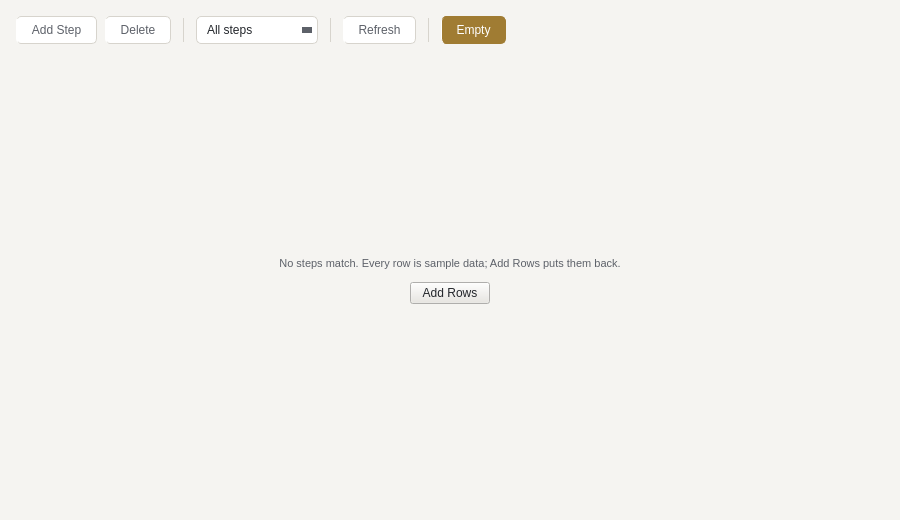
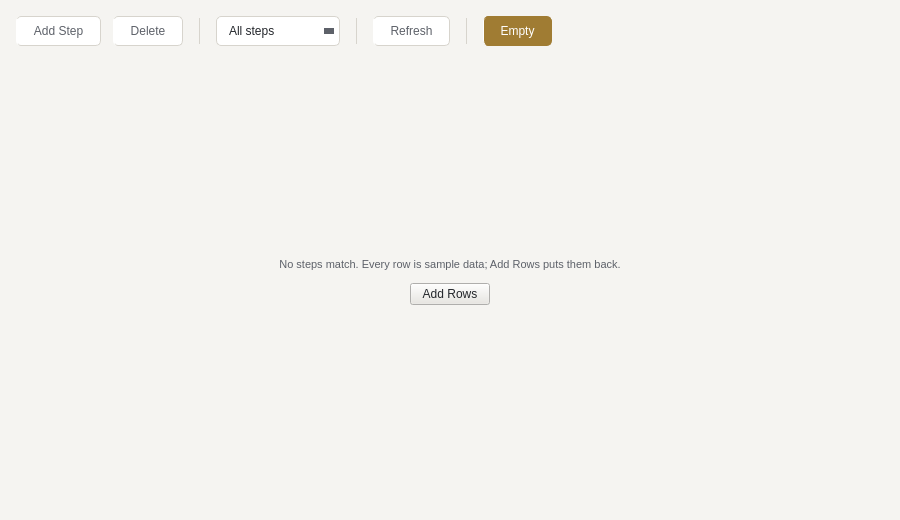
No focus frame on a picked row's cell, and room between the controls on a strip
Qt draws a focus rectangle round the current cell, so a dotted box lingered on the last
cell clicked beside the row's edge — a second mark, on one cell, for the same fact; the
table delegate strips State_HasFocus. The controls on a strip sit CONTROL_GAP = 12 apart
(one token, read by control_bar() and the stylesheet's spacing alike; it was 8 in the
toolbar module) and a strip button is padded 6/12, the combo beside it the same.

Claude-Session: https://claude.ai/code/session_01Uf6cn28apaTnQtKhg87aU2

Changed region(s): [[0.0311, 0.0308, 0.6222, 0.0923], [0.3111, 0.4923, 0.6844, 0.5846]]

diff --git a/src/dplanner/modules/time_estimates/module.py b/src/dplanner/modules/time_estimates/module.py
@@ -93,7 +93,7 @@ from dplanner.framework.context import (
 )
 from dplanner.framework.debounce import Debounced, DebounceService
 from dplanner.framework.tabs import TabHost
-from dplanner.framework.toolbar import CONTROL_GAP, ActionToolbar, control_bar
+from dplanner.framework.toolbar import ActionToolbar, control_bar
 from dplanner.framework.undo import UndoService
 from dplanner.modules.time_estimates.chart import (
     PAGES,
@@ -159,6 +159,7 @@ from dplanner.modules.time_estimates.schedule import (
 )
 from dplanner.modules.time_estimates.snapshots import SaveSnapshotDialog, SnapshotPicker
 from dplanner.modules.time_estimates.view import Banner, FocusBar, MatrixView
+from dplanner.theme.tokens import CONTROL_GAP
 
 TIME_KIND = "time"
 REFRESH_DELAY_MS = 500

diff --git a/src/dplanner/theme/tokens.py b/src/dplanner/theme/tokens.py
@@ -22,7 +22,8 @@ RADIUS_MD: Final = 8
 # disagree about a margin are two surfaces that read as two products.
 DIALOG_MARGIN: Final = 20  # A dialog's outer margin: dialogs breathe more than panels.
 SECTION_GAP: Final = 12  # Between sections; between blocks; between cards; body to footer.
-FIELD_GAP: Final = 8  # Fields within a section; controls on a strip; footer buttons.
+FIELD_GAP: Final = 8  # Fields within a section; footer buttons.
+CONTROL_GAP: Final = 12  # Between the controls on a strip: a packed row of verbs reads as one.
 CAPTION_GAP: Final = 6  # A caption to its field, a note to its field.
 PANEL_MARGIN: Final = 16  # Side panels and tab pages.
 # A rich row (a list of two-line items, a two-line table cell): DESIGN.md's list-row rule.

diff --git a/tests/framework/test_table.py b/tests/framework/test_table.py
@@ -218,3 +218,15 @@ def test_a_rich_row_is_two_lines_of_two_sizes(app):
         assert table.row_height() == snap_up(rich_row_height(font))
     finally:
         table.deleteLater()
+
+
+def test_the_current_cell_wears_no_focus_frame(table):
+    """Qt draws a focus rectangle round the current cell; the row's edge is the one mark."""
+    from PySide6.QtWidgets import QStyle, QStyleOptionViewItem
+
+    table.add_row(["a", "1", ""])
+    option = QStyleOptionViewItem()
+    option.state |= QStyle.StateFlag.State_HasFocus
+    table.delegate.initStyleOption(option, table.model().index(0, 0))
+    assert not option.state & QStyle.StateFlag.State_HasFocus
+    assert option.text == "" and option.icon.isNull()

diff --git a/src/dplanner/framework/table.py b/src/dplanner/framework/table.py
@@ -274,6 +274,9 @@ class TableDelegate(QStyledItemDelegate):
         # itself, so text cleared there comes back and prints under ours.
         option.text = ""
         option.icon = QIcon()
+        # No focus frame: the style draws one round the *current cell*, and a dotted box
+        # lingering on the last cell clicked is a second mark for what the row's edge says.
+        option.state &= ~QStyle.StateFlag.State_HasFocus
 
     def paint(
         self,

diff --git a/src/dplanner/framework/toolbar.py b/src/dplanner/framework/toolbar.py
@@ -32,8 +32,7 @@ from dplanner.framework.action_menu import fill_menu
 from dplanner.framework.action_registry import ActionRegistry
 from dplanner.framework.context import Context, ContextService
 from dplanner.theme.icons import ICON_SIZE
-
-CONTROL_GAP = 8
+from dplanner.theme.tokens import CONTROL_GAP
 
 
 def control_bar(parent: QWidget | None = None) -> QToolBar:

diff --git a/NOTES-FOR-APPFRAME.md b/NOTES-FOR-APPFRAME.md
@@ -2500,7 +2500,9 @@ is per cell), a 2 px `QPalette.Accent` edge on column 0 of a picked row, the res
 slot, elided one- or two-line text in the palette's `Text` (never `HighlightedText`: the
 picked ground is the quiet overlay). `add_row` stamps a tint and the host's roles on every
 cell; `add_heading` is a spanned `NoItemFlags` row; `fit_columns` opens interactive columns
-at their content. `list_rows.py` gains `TINT_ROLE` and `HEADING_ROLE`.
+at their content; `initStyleOption` also strips `State_HasFocus`, since the style's focus
+frame round the current cell lingered as a box on the last cell clicked. `list_rows.py`
+gains `TINT_ROLE` and `HEADING_ROLE`.
 
 **Why.** Three hand-written copies of one configuration disagreeing on nine settings, and
 four widgets borrowing `#OrderTable` by name. The per-row `setRowHeight` versus
@@ -2568,8 +2570,8 @@ way for the one moment a person must read carefully.
 ### `theme/tokens.py`, `theme/tones.py`, `theme/theme.qss` — tokens, status tones, and a stylesheet that names only what exists
 
 **What.** Spacing tokens (`DIALOG_MARGIN`, `SECTION_GAP`, `FIELD_GAP`, `CAPTION_GAP`,
-`PANEL_MARGIN`, `ROW_PADDING_*`, `ROW_LINE_GAP`, `CELL_PADDING_*`, `SECONDARY_ALPHA`,
-`SCREEN_SHARE`) replace copies in `text_dialog.py`, `asset_picker.py`, `image_preview.py`,
+`PANEL_MARGIN`, `CONTROL_GAP` — out of `framework/toolbar.py`, and 12 now — `ROW_PADDING_*`,
+`ROW_LINE_GAP`, `CELL_PADDING_*`, `SECONDARY_ALPHA`, `SCREEN_SHARE`) replace copies in `text_dialog.py`, `asset_picker.py`, `image_preview.py`,
 `cards.py`, `list_rows.py`, `markdown_highlight.py` and `theme/cards.py`. `STATUS_TONES`
 (`VALID_TINT`, `INVALID_TINT`, `BUSY_TINT`) move in from the canvas renderer. The
 stylesheet loses fifty-six object names the template's Writer app set — forty per cent of

diff --git a/DESIGN.md b/DESIGN.md
@@ -389,7 +389,9 @@ once, its delegate painting what a row wears. Debug ▸ Design Example Table is 
   colour at ~5 %, theme-independent like every painter's tone); a picked row wears a 2 px
   `$ACCENT` edge inside its left over the quiet `$BG_OVERLAY` ground — the edge the active
   pane wears on its top — and *gains* its ground rather than losing its tint, so a
-  milestone's row stays purple while picked (*Colour*).
+  milestone's row stays purple while picked (*Colour*). Nothing else marks it: the focus
+  frame Qt draws round the *current cell* is stripped, because a dotted box lingering on
+  the last cell clicked is a second mark, on one cell, for what the edge already says.
 - A row that is a **fixed point** among its neighbours (a milestone) goes bold, and is the
   one weight in the table: a glance down a column of quiet lines finds the milestones
   without reading. Emphasis for any other reason is size or colour, never a second bold.
@@ -463,7 +465,8 @@ reaching `theme.qss` as `$NAME` for free. A literal in a layout is a copy that d
 |---|---|---|
 | `DIALOG_MARGIN` | 20 | a dialog's outer margin |
 | `SECTION_GAP` | 12 | between sections; between blocks; between cards; body to footer |
-| `FIELD_GAP` | 8 | fields within a section; controls on a strip; footer buttons |
+| `FIELD_GAP` | 8 | fields within a section; footer buttons |
+| `CONTROL_GAP` | 12 | between the controls on a strip; a button's own padding is 6 / 12 |
 | `CAPTION_GAP` | 6 | a caption to its field, a note to its field |
 | `PANEL_MARGIN` | 16 | side panels and tab pages |
 | `ROW_PADDING_V` / `ROW_PADDING_H` | 10 / 12 | a rich row: lists and two-line cells alike |
